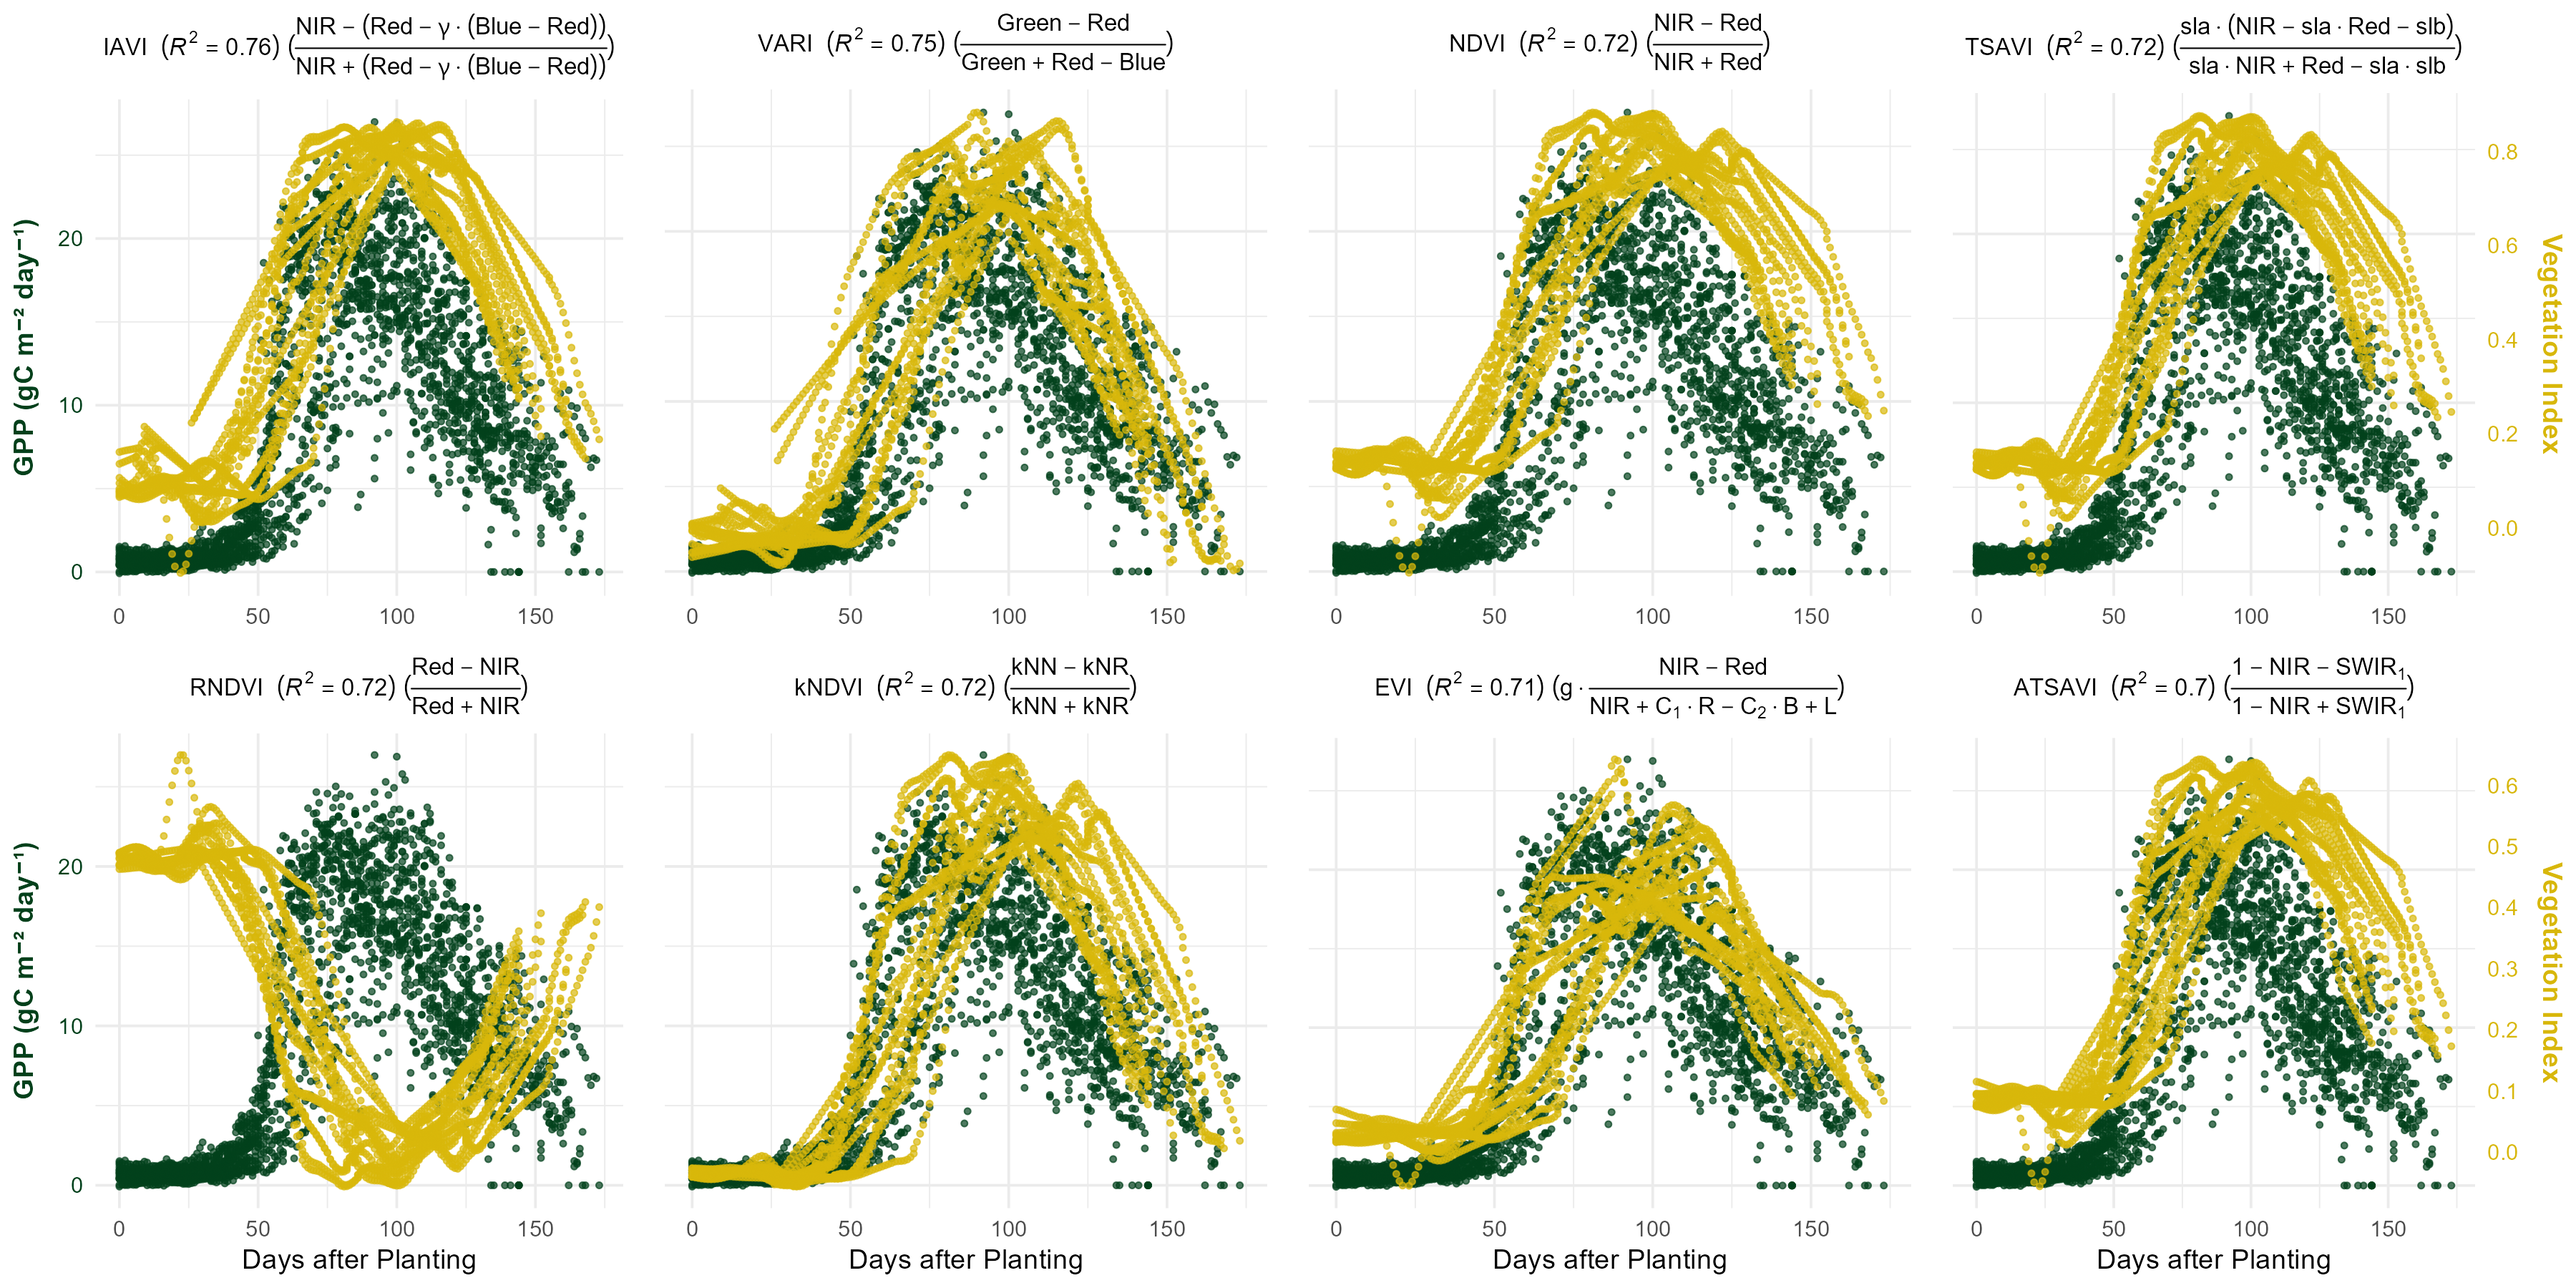
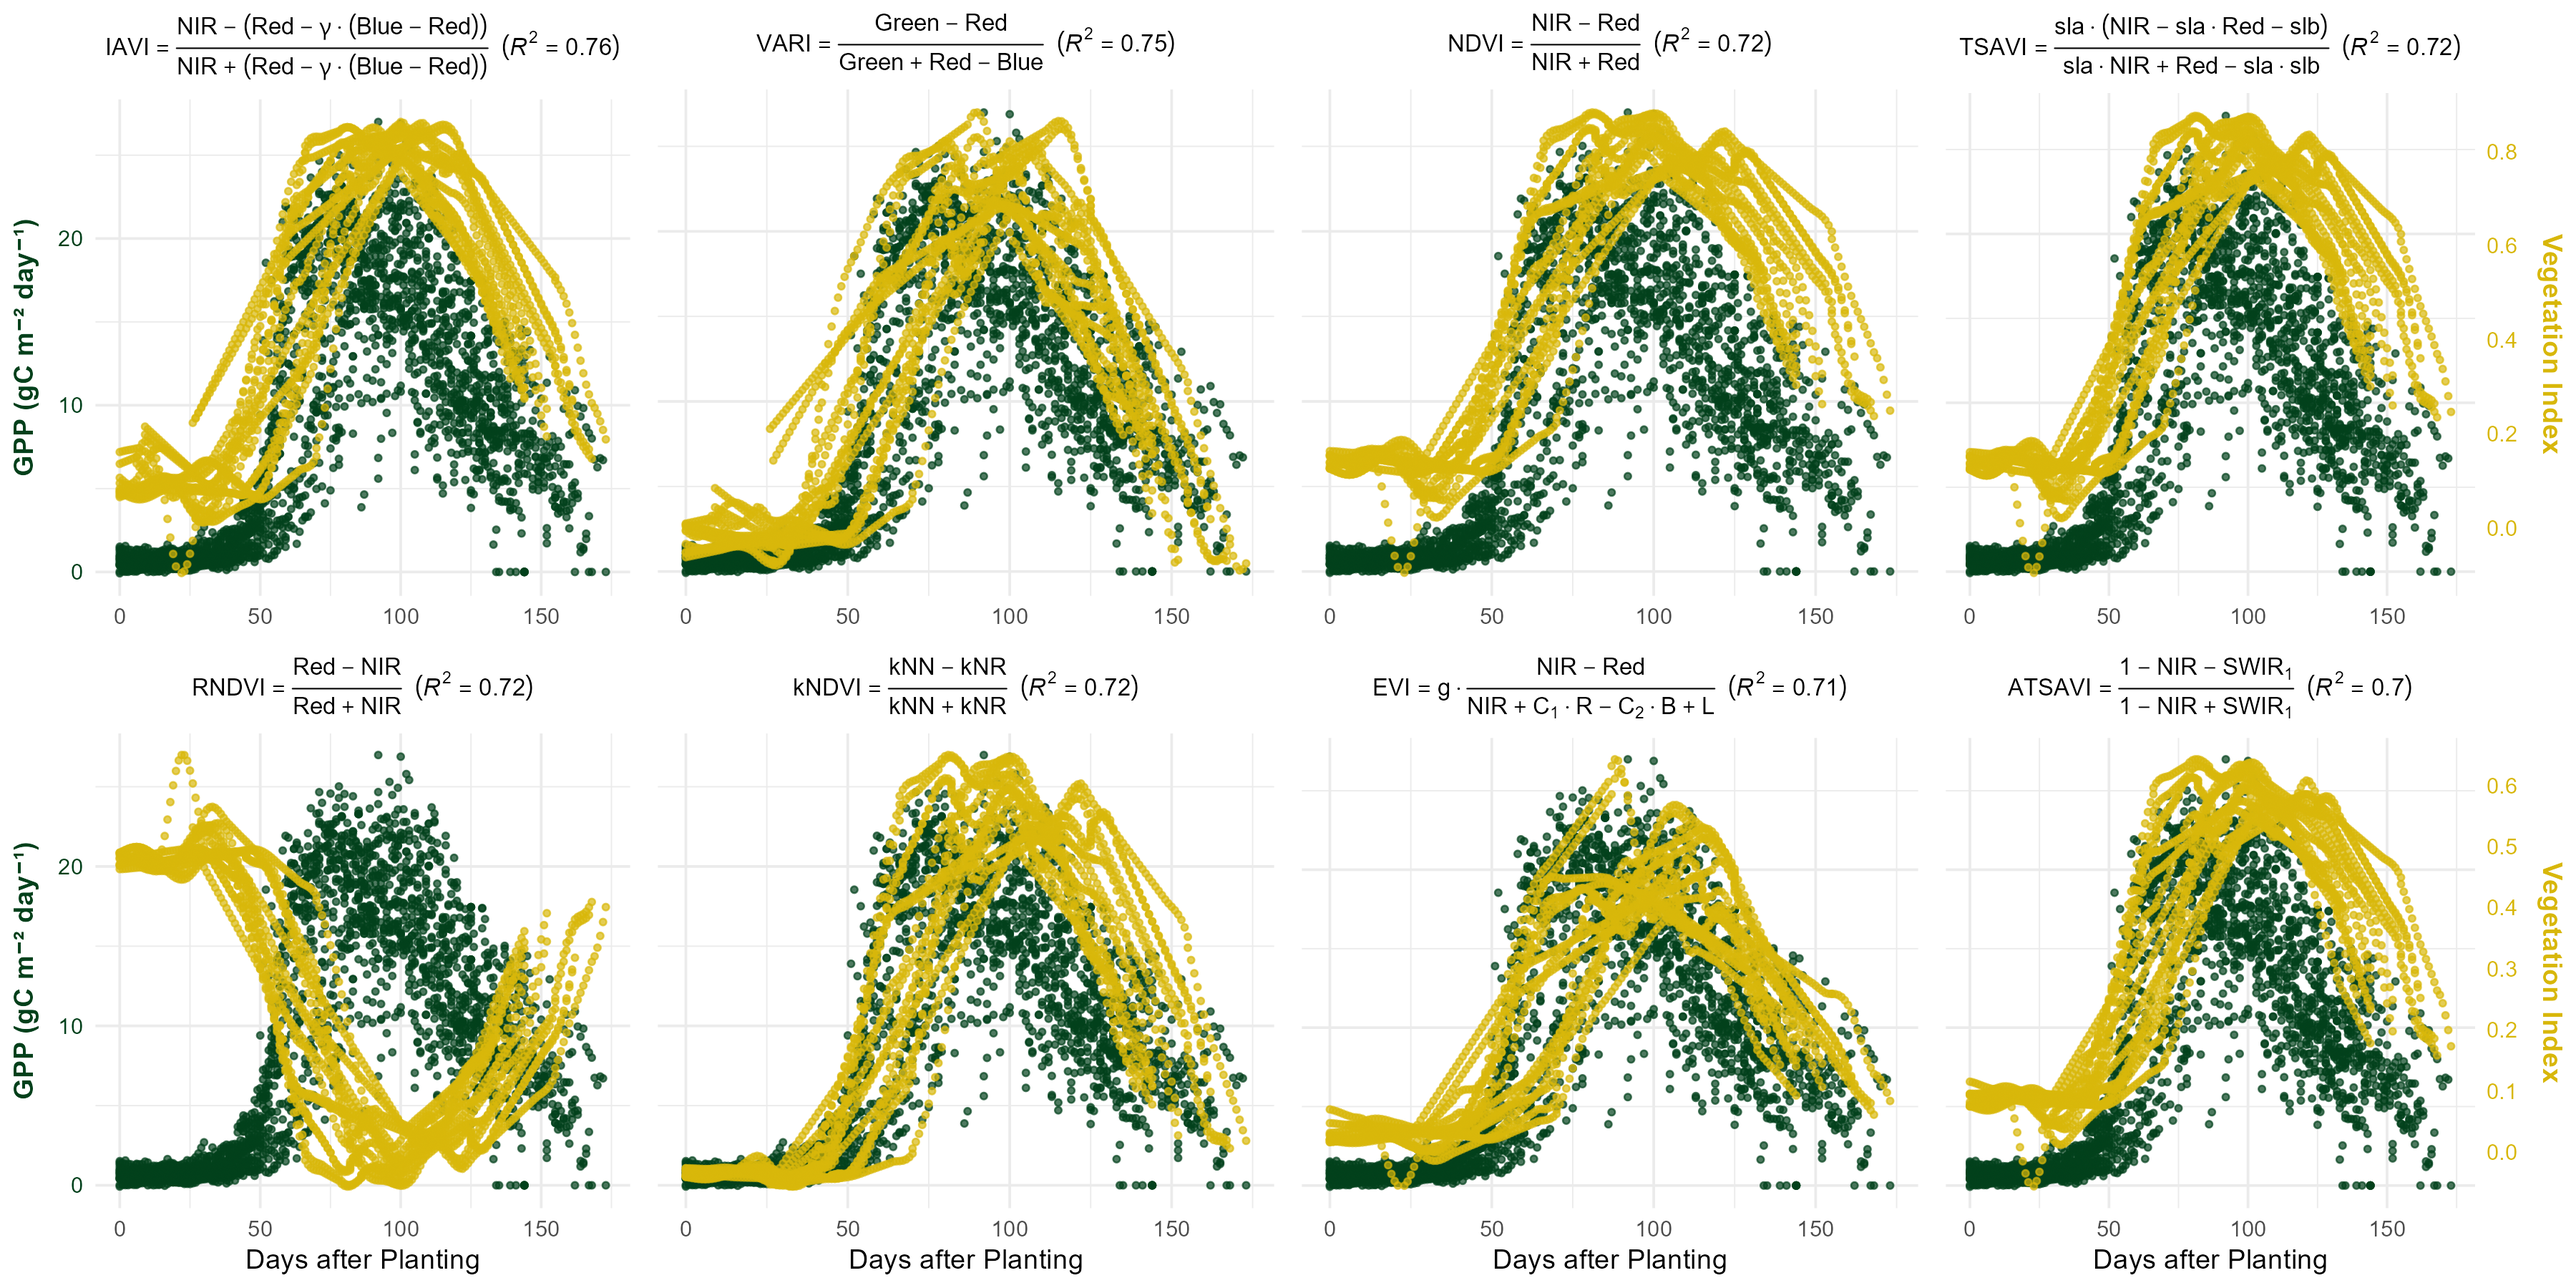
update on dual axis of GPPVI
update on dual axis of GPPVI

diff --git a/_pages/infographics.md b/_pages/infographics.md
@@ -60,7 +60,7 @@ How the relationship between rice growing frequency and the residuals from the m
 - [Download LUEbiophysical.png](/files/LUEbiophysical.png)
 
 ### Relationship between GPP and Vegetation Indices 
-<img src="/files/GPPVI_dual_axis.png" alt="GPP VI Dual Axis" style="width: 60%; max-width: 600px;" />
+<img src="/files/GPPVI_dual_axis_title_eq.png" alt="GPP VI Dual Axis" style="width: 60%; max-width: 600px;" />
 - [Download GPPVI_dual_axis.png](/files/GPPVI_dual_axis_title_eq.png)
 
 ### Harmonic Fit of kNDVI index from One Rice Field Analysis
